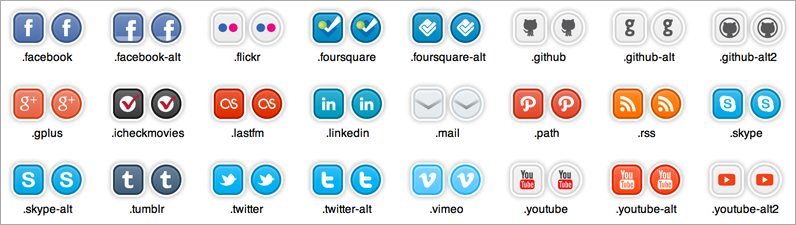
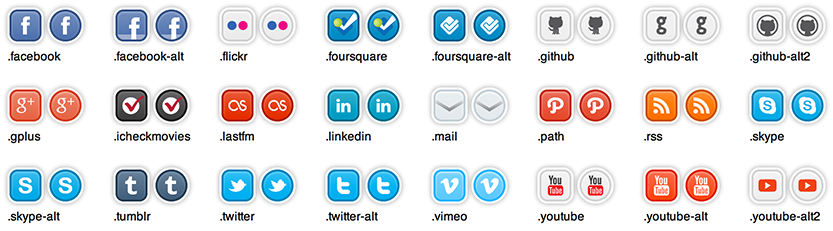
Changed the preview page and image

diff --git a/index.html b/index.html
@@ -18,11 +18,11 @@
 			}
 			.btn-container {
 				float: left;
-				margin: 0 29px 20px 0;
+				width: 106px;
+				height: 80px;
 			}
 			span {
 				font: 400 12px/20px Corbel, Calibri, Helvetica, Verdana, sans-serif;
-				text-align: center;
 				display: block;
 			}
 		</style>
